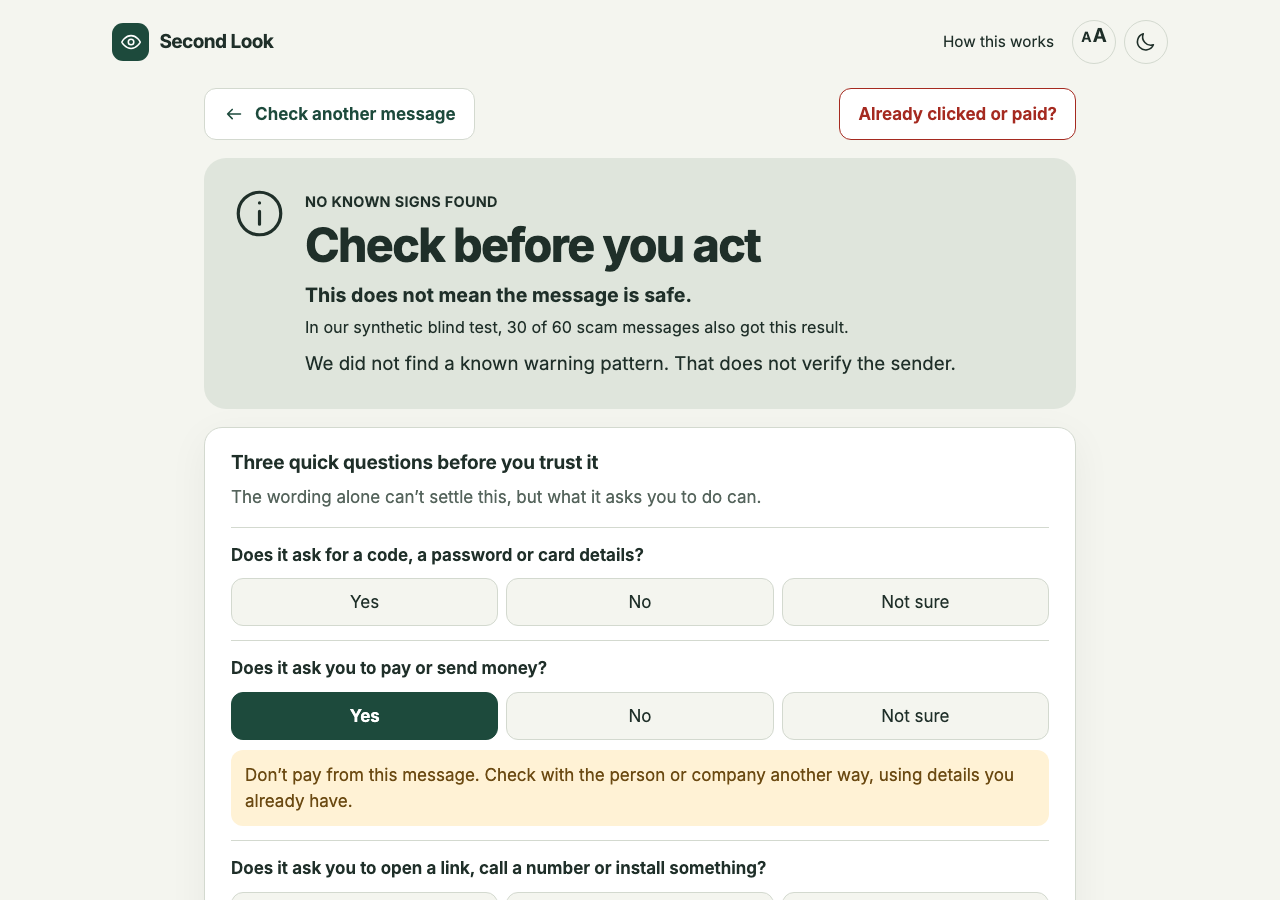
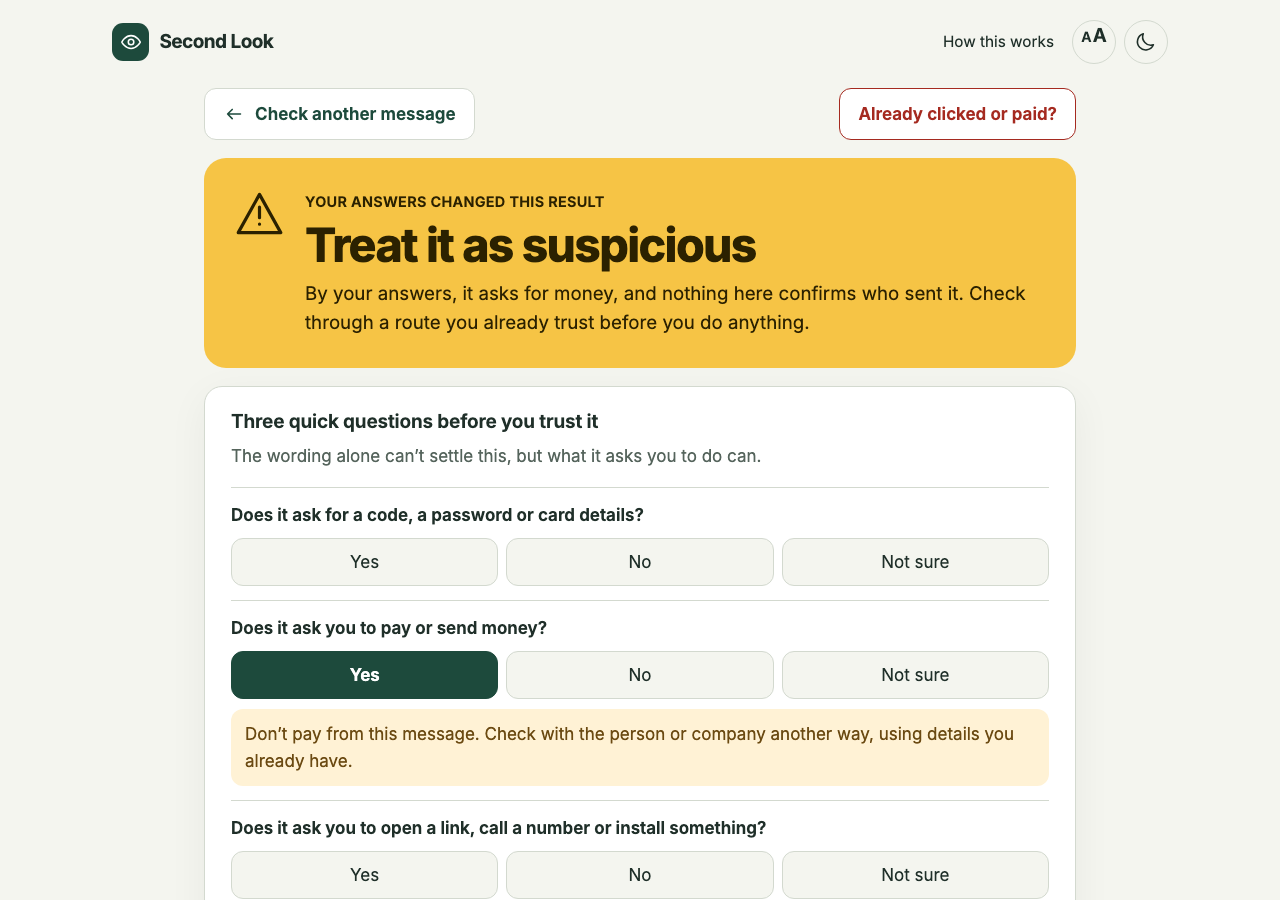
Screenshots show the three questions changing the result

Changed region(s): [[0.1562, 0.1556, 0.8438, 1.0], [0.6875, 0.5911, 0.75, 0.6844]]

diff --git a/scripts/screenshots.ts b/scripts/screenshots.ts
@@ -72,7 +72,10 @@ async function main() {
       await analyse(page, SCAM);
     });
     await shot('ask-back', { width: 1280, height: 900, scheme: 'light' }, async (page) => {
-      await page.getByRole('button', { name: /Dentist reminder/ }).click();
+      await analyse(
+        page,
+        "Hi, it's Jo from the school office. The trip money for Friday hasn't come through yet. Could you send the £35 today so Mia can still go?",
+      );
       await page
         .locator('.askback')
         .getByRole('group', { name: /pay or send money/ })
